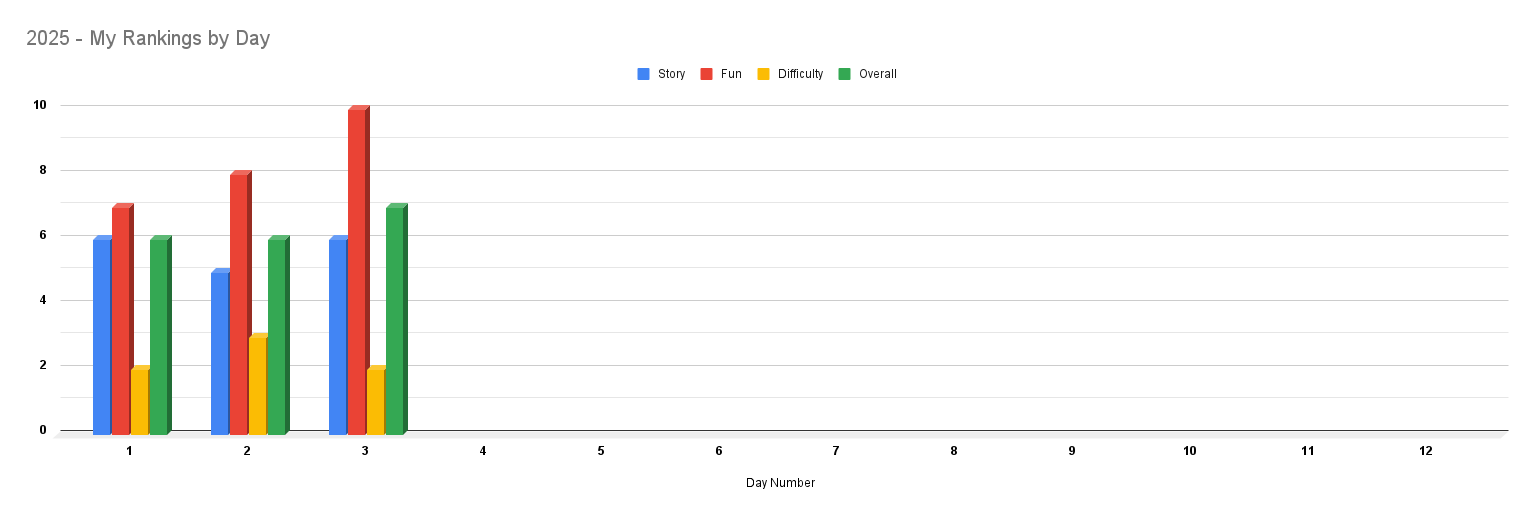
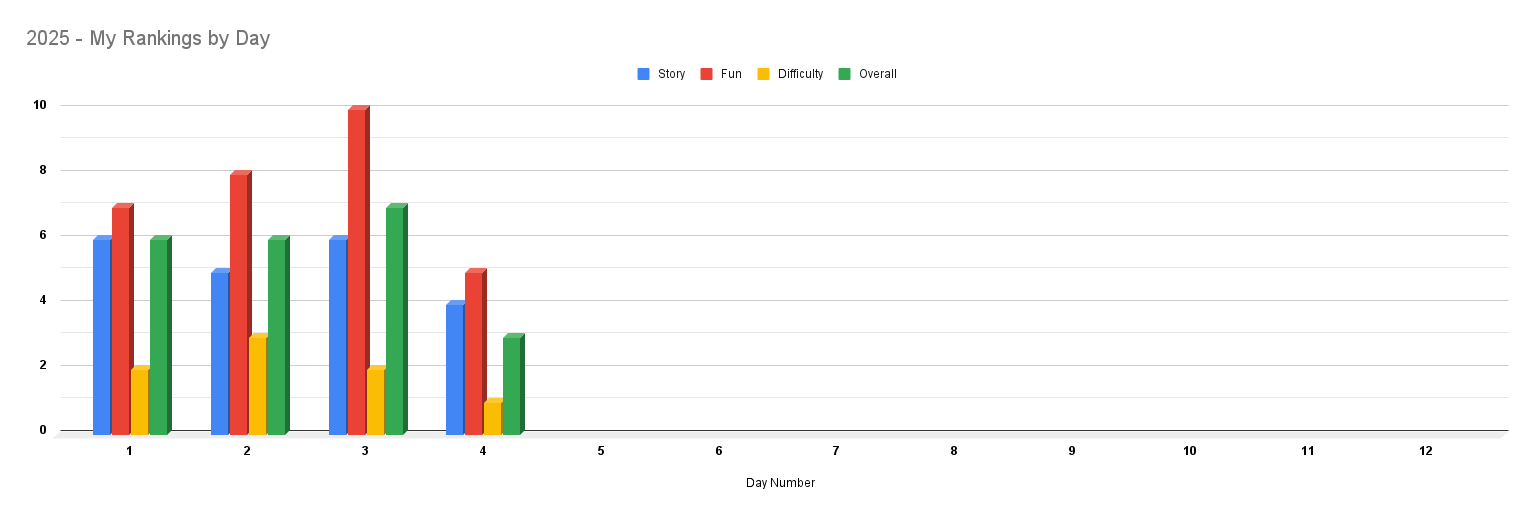
Day 4 done.

Changed region(s): [[0.2757, 0.5271, 0.3677, 0.8682]]

diff --git a/2025/python/day4/main.py b/2025/python/day4/main.py
@@ -1,16 +1,30 @@
 from utils.timers import run_with_timer, get_data_with_timer
-
+from utils.grid import Grid
 
 def get_data(filename):
-	return
+	g = Grid(file=filename)
+	g.set_neighbors_for_all(include_diagonals=True)
+	return g
 
 
 def part_one(d):
-	return
+	return len(get_forklift_accessible(d))
 
 
 def part_two(d):
-	return
+	count = 0
+	while True:
+		removals = get_forklift_accessible(d)
+		if len(removals) == 0:
+			break
+		count += len(removals)
+		for x in removals:
+			x.set_value(".")
+	return count
+
+
+def get_forklift_accessible(d):
+	return set([p for p in [x for x in d.get_points() if x.get_value() == "@"] if len([x for x in p.get_neighbors() if x.get_value() == "@"]) < 4])
 
 
 def main(f="input.txt"):

diff --git a/2025/python/day4/test.py b/2025/python/day4/test.py
@@ -6,7 +6,7 @@ from main import part_one, part_two, get_data
 class TestMain(unittest.TestCase):
 
 	def test_part_one(self):
-		self.assertEqual("", part_one(get_data("sample.txt")))
+		self.assertEqual(13, part_one(get_data("sample.txt")))
 
 	def test_part_two(self):
-		self.assertEqual("", part_two(get_data("sample.txt")))
+		self.assertEqual(43, part_two(get_data("sample.txt")))

diff --git a/2025/python/run_all.py b/2025/python/run_all.py
@@ -13,7 +13,7 @@ import day10.main as d10
 import day11.main as d11
 import day12.main as d12
 
-days = [d1, d2, d3]
+days = [d1, d2, d3, d4]
 
 
 def run_all(runs):
@@ -66,7 +66,7 @@ def run_part_with_no_data(runs, part2):
 
 
 def main():
-	runs = 1000
+	runs = 100
 	run_all_get_data(runs)
 	run_all_part_one_no_data(runs)
 	run_all_part_two_no_data(runs)

diff --git a/2025/python/day4/README.md b/2025/python/day4/README.md
@@ -1,21 +1,43 @@
 # Approach
 ### Data format
 
-
+Read the input as a `Grid`. Luckily my utility classes work perfectly for this kind of puzzle.
 
 ### Part 1
-> __
+> _How many rolls of paper can be accessed by a forklift?_
 
+Since my `Grid` utility class already has a bunch of helper functions for getting all of the points and setting all
+of their neighbors and values and everything, I am able to just iterate over every point in the `Grid` that has a
+value of `@` and then count how many neighbors it has with a value of `@`. Do that one time and return the total count.
 
+It took me a couple of minutes to remember how to use my `Grid` completely, but I solved this part in about 4 minutes, so
+I was pretty happy with that.
+
+I decided to store all of the points that the forklift can reach in a `set` because it will make part 2 much easier.
 
 ### Part 2
-> _What is their similarity score?_
+> _How many rolls of paper in total can be removed by the Elves and their forklifts?_
 
+...I read this and my brain started struggling to figure out how to determine which rolls are accessible by a forklift...
 
+I read it over and over, and looked at the example and started thinking that I'd have to do some sort of flood fill to
+determine which ones a forklift driving around the outside would be able to reach and remove...and just do that over and over...
+I started playing with that for about 5-8 minutes until I realized what I did in part 1 is exactly the definition of
+being accessible by a forklift.
+
+...I'm a complete idiot...Just run a loop performing the part 1 code on the grid and for every point it finds that is
+accessible, change the value to `.`. Once I run through the whole grid without changing any values to `.` in a given
+iteration, I can quit the loop. Keep track over all iterations of how many I change, and voila. Simple answer.
+
+I seriously could have finished this part in about 2 minutes...but alas...I once again was trying to over-complicate things.
 
 # Results
 
-|              | Exec. Time (ms) |
-|--------------|----------------:|
-| **Part One** |                 |
-| **Part Two** |                 |
+|              |        Exec. Time (ms) - Python 3.13 |      Exec. Time (ms) - PyPy 3.11 |
+|--------------|-------------------------------------:|---------------------------------:|
+| **Get Data** |                              334.266 |                           36.319 |
+| **Part One** |                               29.609 |                           11.622 |
+| **Part Two** |                              852.251 |                          233.609 |
+| **TOTAL**    |                           *1216.126* |                         *281.55* |
+
+** *Ran each part 100 times and averaged the run times to get final execution time*

diff --git a/2025/python/README.md b/2025/python/README.md
@@ -8,14 +8,14 @@ breakdown of how long each part of my total Advent of Code takes.
 
 For the below, I ran each part individually and then everything together.
 
-|              |      Exec. Time (ms) - Python 3.13 |     Exec. Time (ms) - PyPy 3.11 |
-|--------------|-----------------------------------:|--------------------------------:|
-| **Get Data** |                              5.657 |                           2.801 |
-| **Part One** |                              4.125 |                           1.153 |
-| **Part Two** |                              8.377 |                           1.908 |
-| **TOTAL**    |                           *18.159* |                         *5.862* |
+|              |        Exec. Time (ms) - Python 3.13 | Exec. Time (ms) - PyPy 3.11 |
+|--------------|-------------------------------------:|----------------------------:|
+| **Get Data** |                              327.513 |                      50.987 |
+| **Part One** |                               40.356 |                      17.726 |
+| **Part Two** |                             1030.379 |                     269.283 |
+| **TOTAL**    |                           *1398.248* |                   *337.996* |
 
-** *Ran each part 1000 times and averaged the run times to get final execution time*
+** *Ran each part 100 times and averaged the run times to get final execution time*
 
 ## System Details
 
